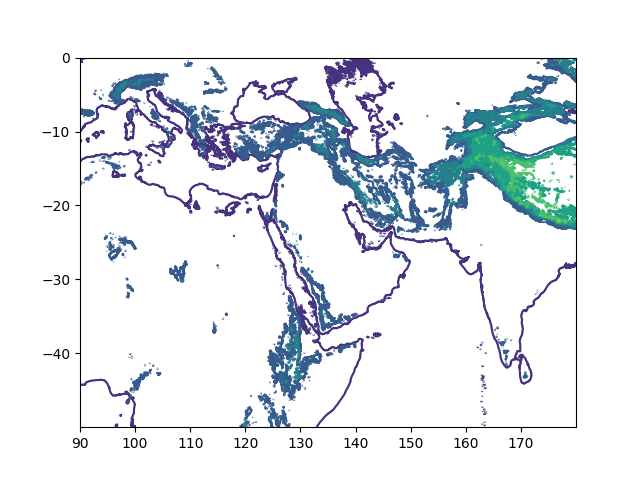
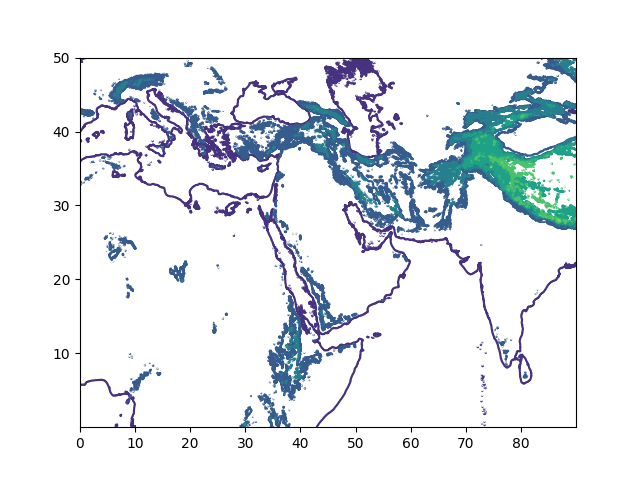
-

diff --git a/sk/2019/04/elevation.md b/sk/2019/04/elevation.md
@@ -254,14 +254,14 @@ gltiles = {
 
 z = np.fromfile('all10g/all10/g10g',dtype='<i2')
 
-t, lat_min, lat_max, lon_min, lon_max, elev_max, cols, rows = gltiles['g10g']
+lat_min, lat_max, lon_min, lon_max, elev_min, elev_max, cols, rows = gltiles['g10g']
 
 z = np.reshape(z,(round(z.__len__()/cols), cols))
 
 z[z==-500]=0
 
-lon = lon_min + 1/120*np.arange(10800)
-lat = lat_max - 1/120*np.arange(round(z.size/10800))
+lon = lon_min + 1/120*np.arange(cols)
+lat = lat_max - 1/120*np.arange(round(z.size/cols))
 
 downsample = 2
 lat_select = np.arange(0,len(lat),downsample)
